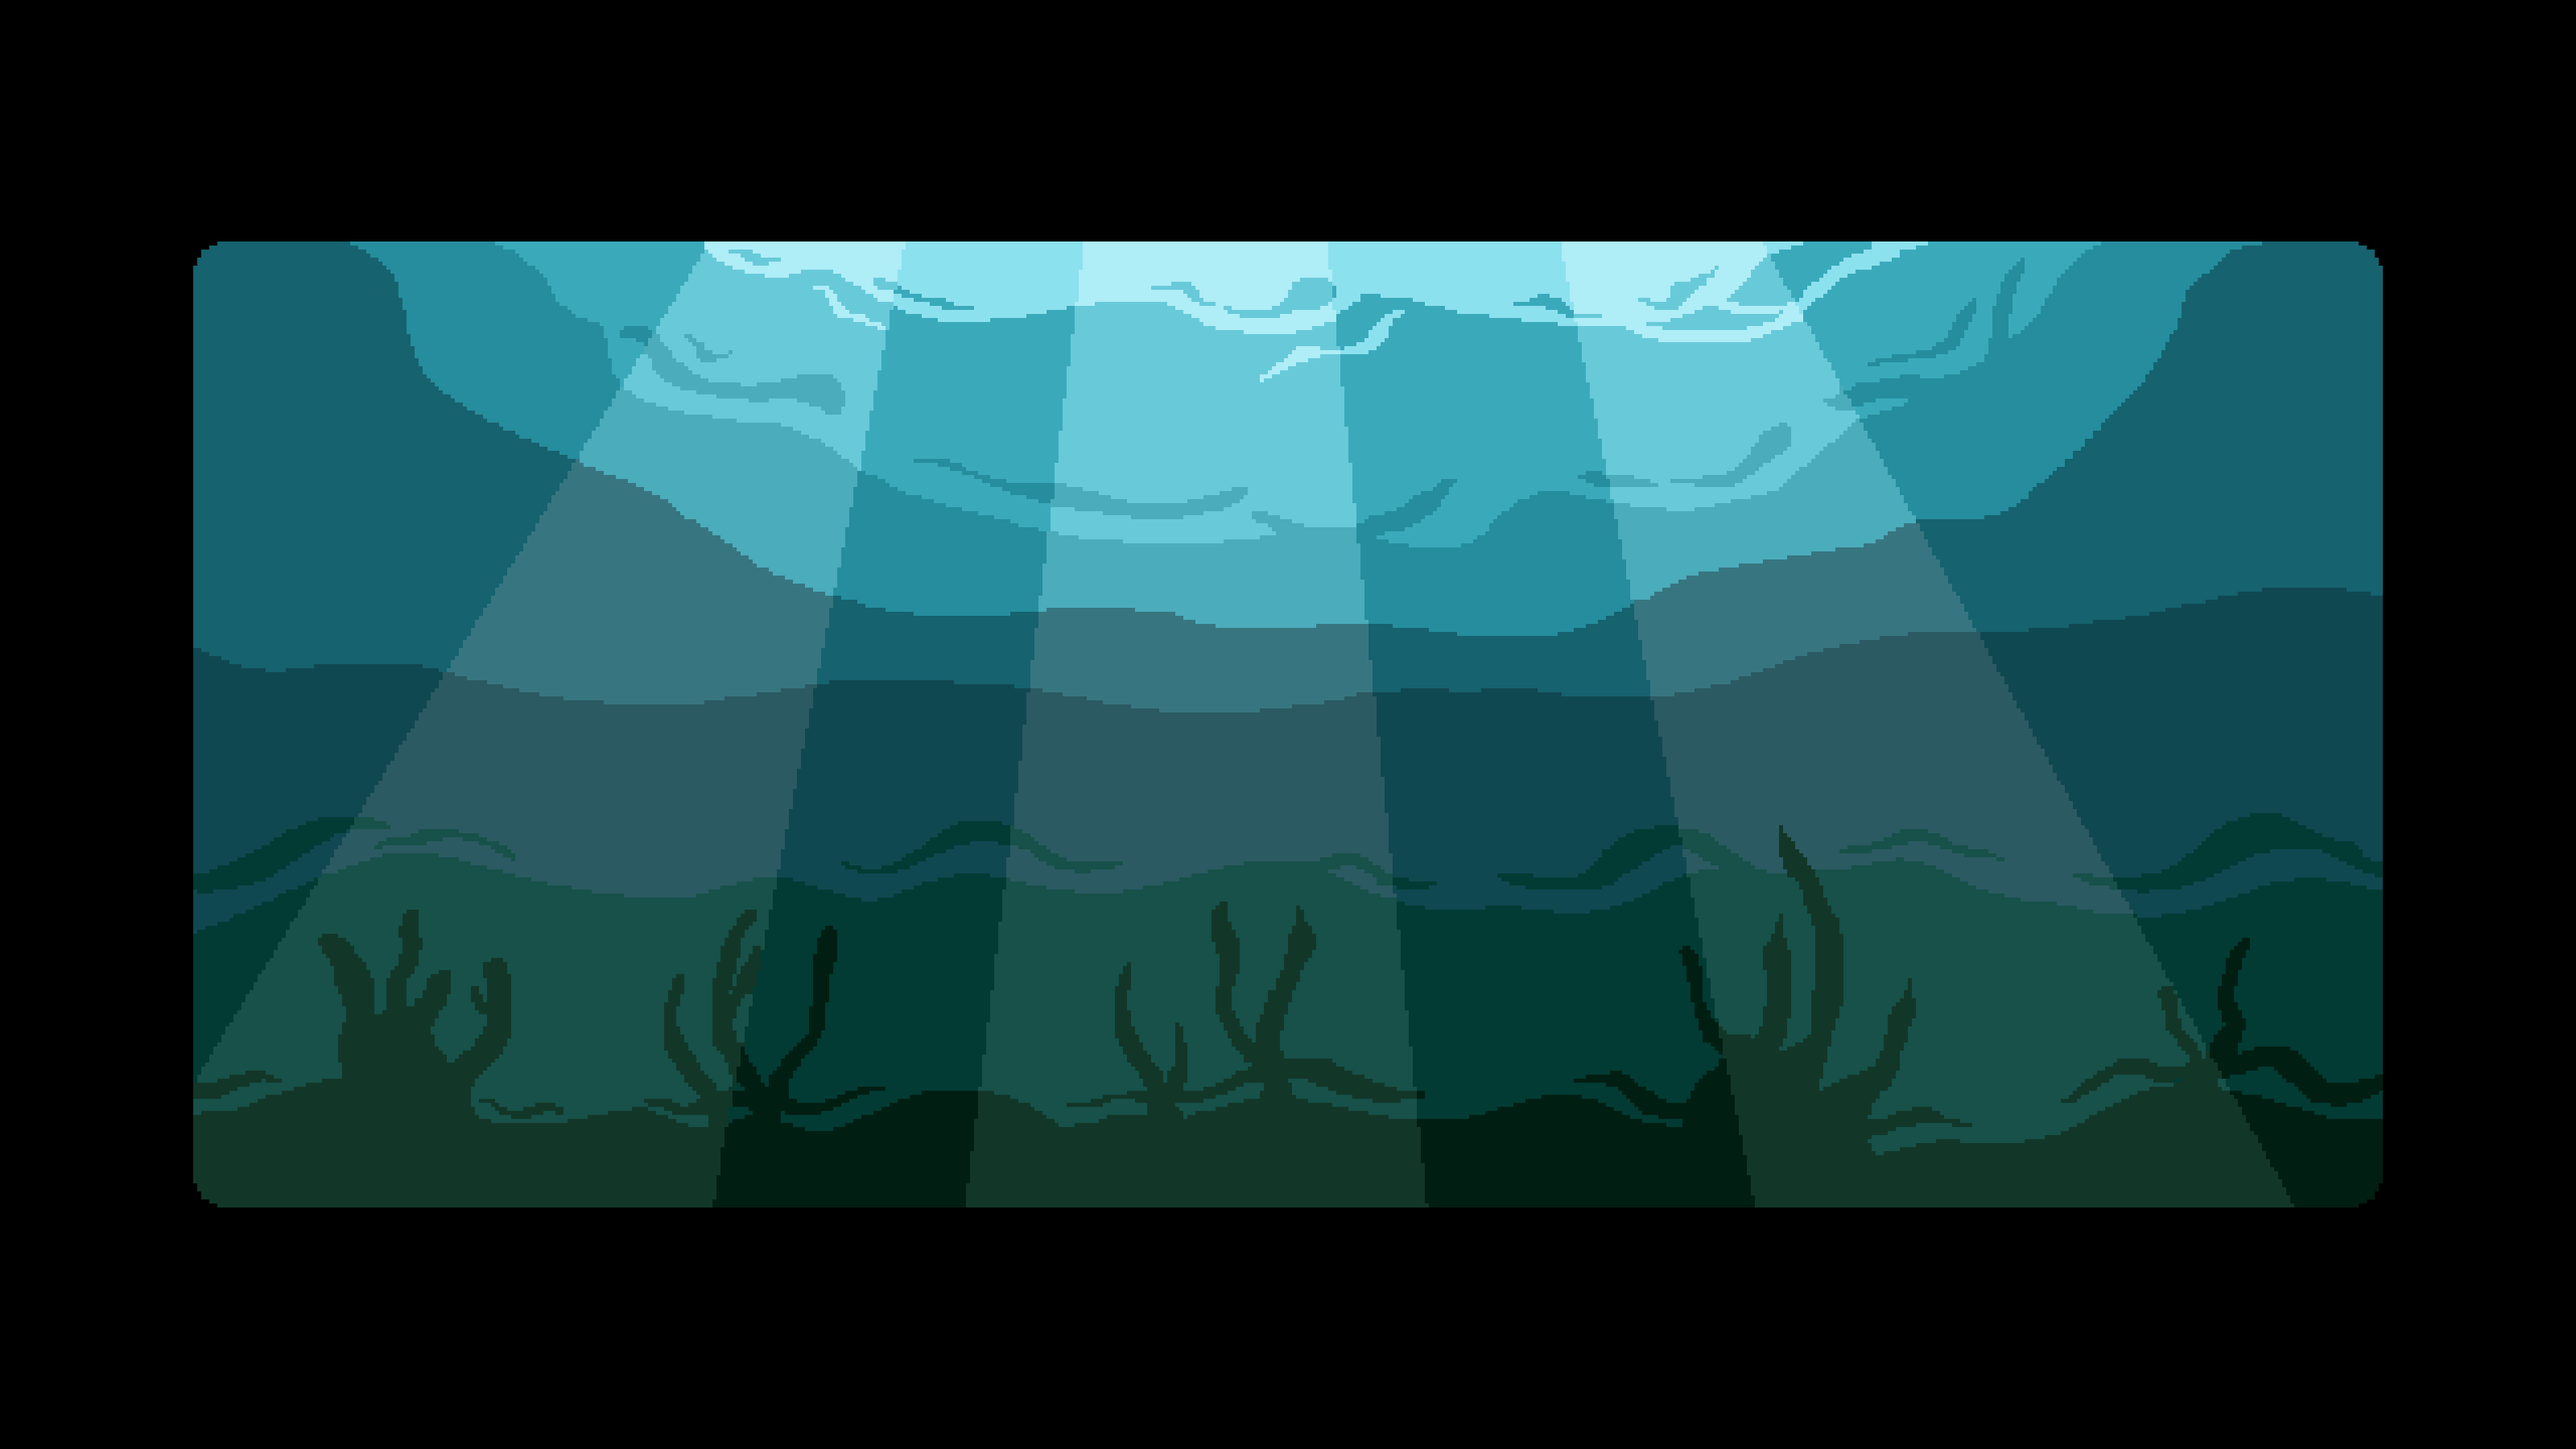
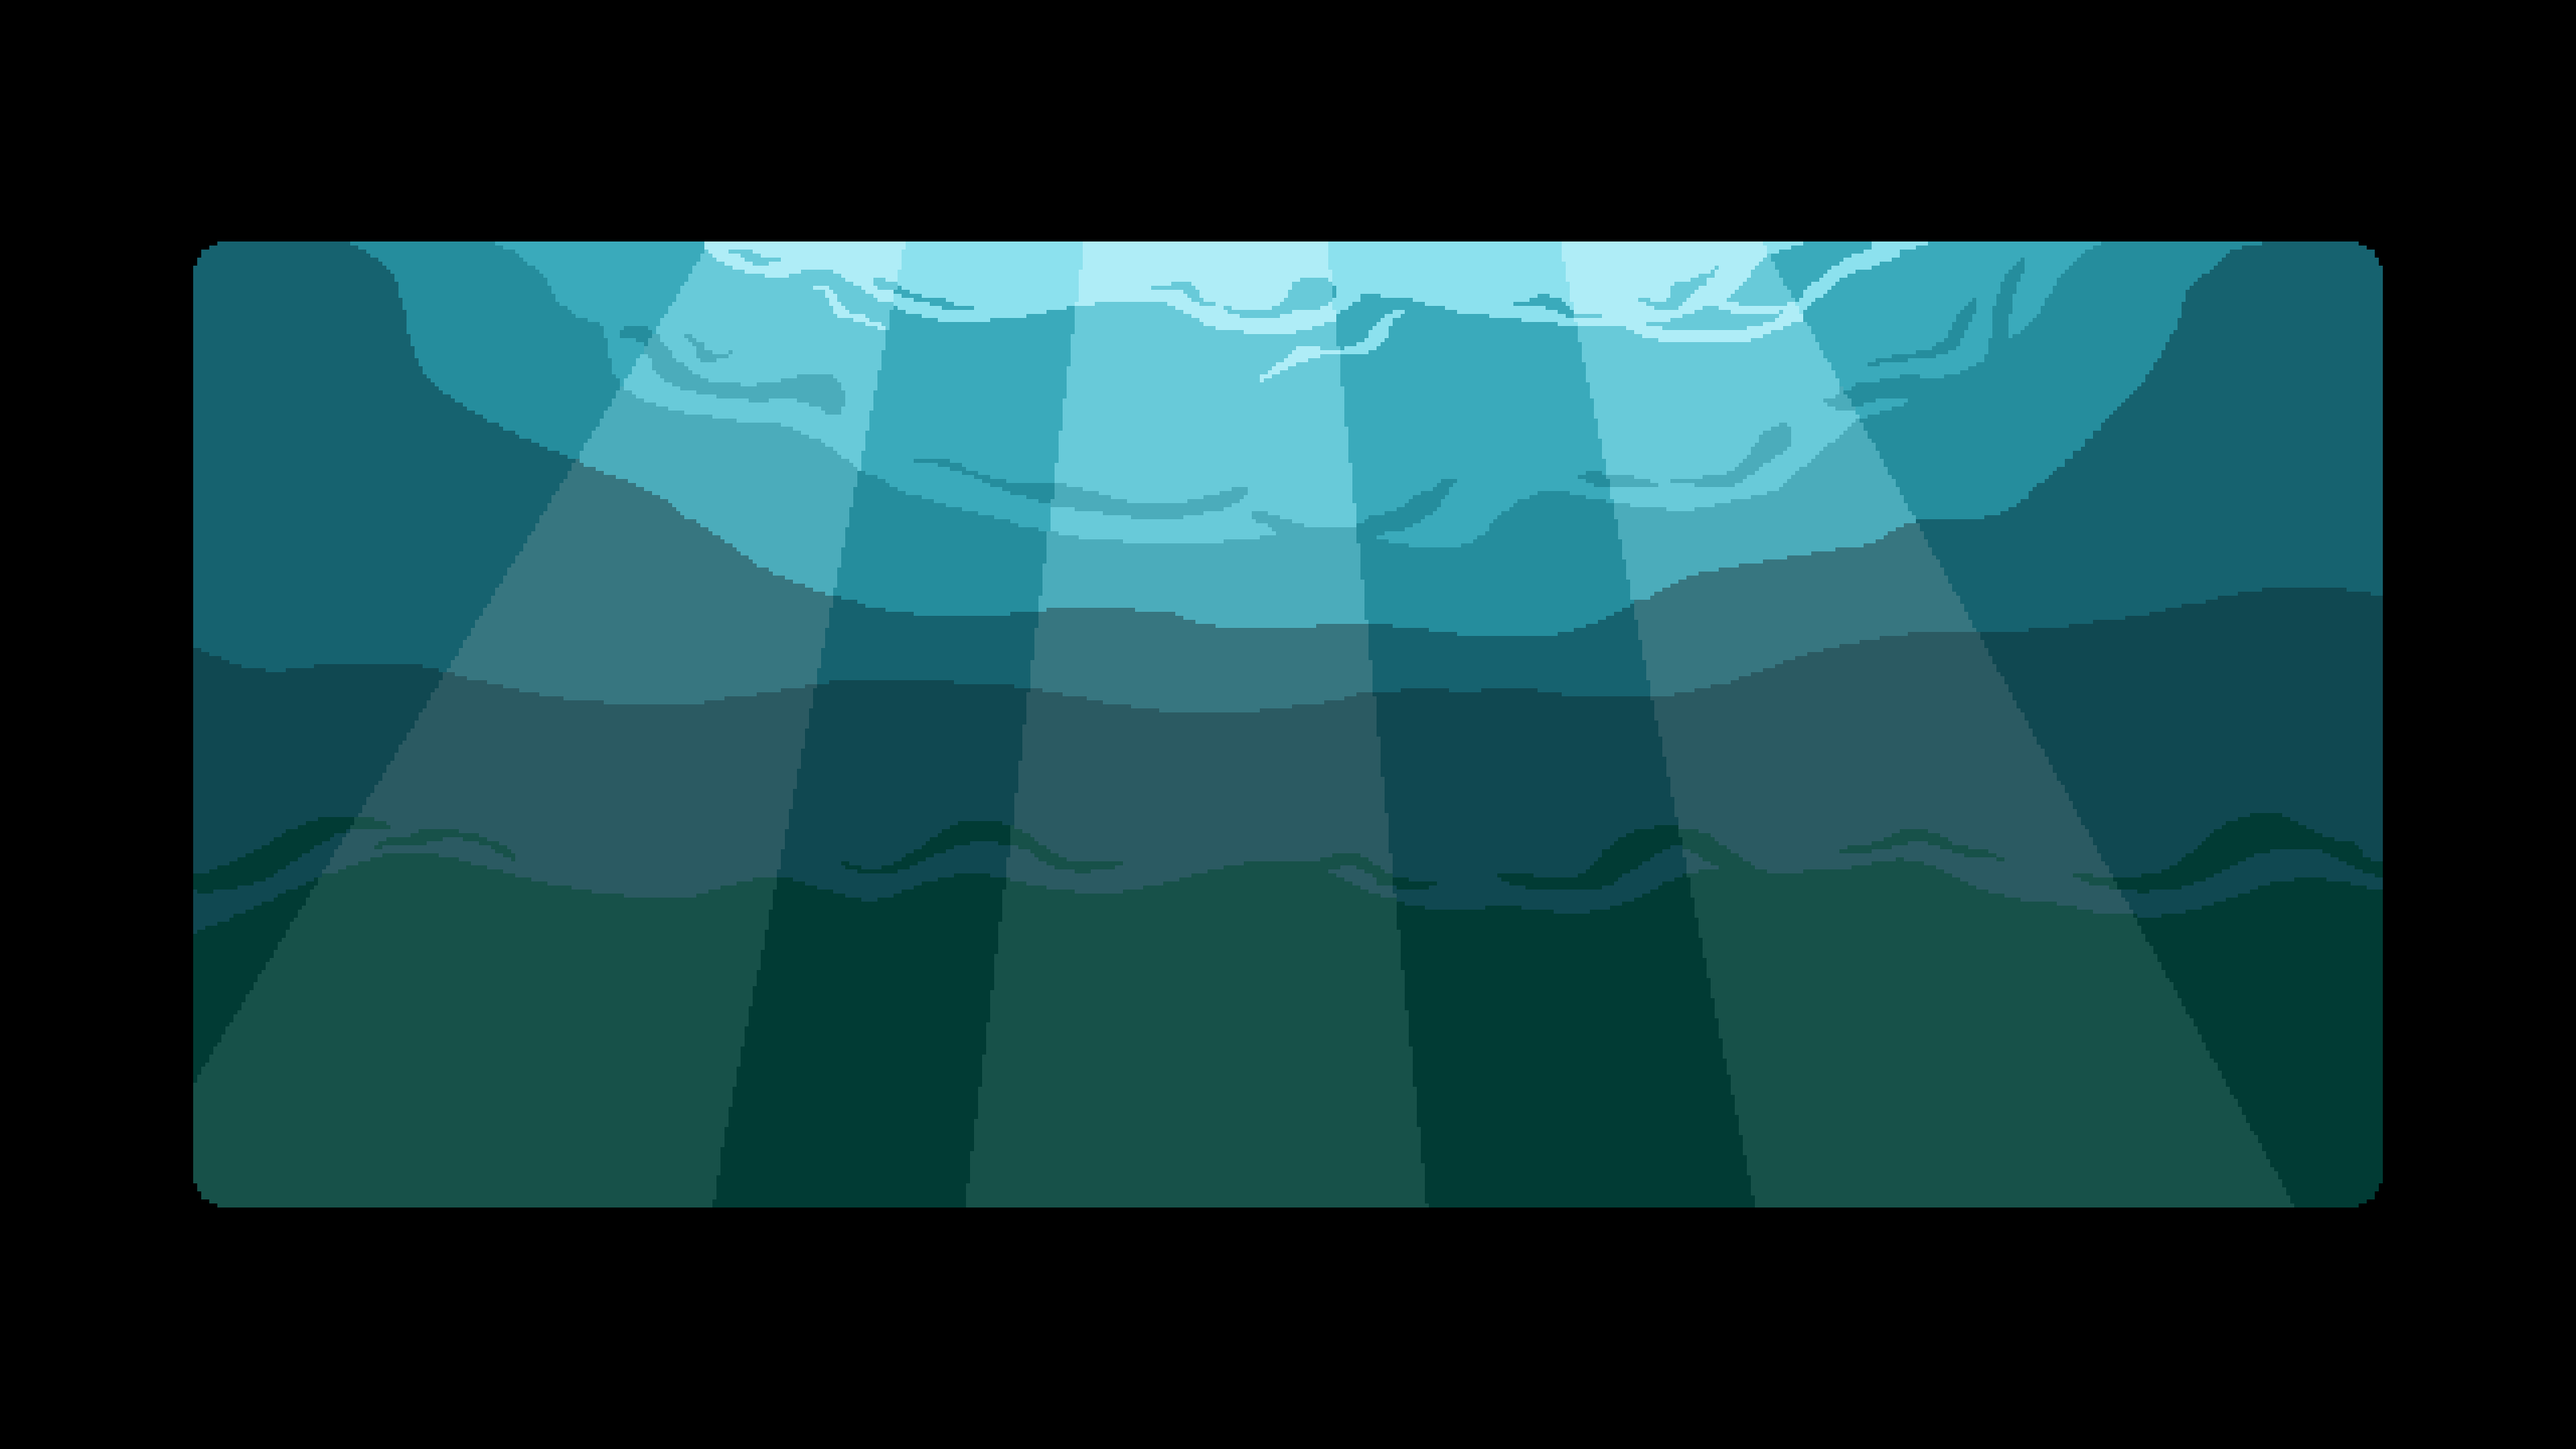
added seaweed animation
seaweed animated with frames

Changed region(s): [[0.0625, 0.56, 0.9375, 0.84], [0.4062, 0.6844, 0.4375, 0.7156]]

diff --git a/An Phiast Game/game/script.js b/An Phiast Game/game/script.js
@@ -680,6 +680,19 @@ let waterShootFrameCounter = 0;
 let waterShootFrameDelay = 10;
 let waterShoot = null;
 
+// seaweed animation lvl 10
+const seaweedFrames = [];
+
+for (let i = 1; i <= 4; i++) {
+    const img = new Image();
+    img.src = "assets/images/seaweed_" + i + ".png";
+    seaweedFrames.push(img);
+}
+
+let seaweedFrameIndex = 0;
+let seaweedFrameCounter = 0;
+let seaweedFrameDelay = 26;
+
 
 
 
@@ -3109,6 +3122,21 @@ if (currentLevel === 3 || currentLevel === 4 || currentLevel === 5) {
         }
 }
 
+    // animate seaweed level 10
+    if (currentLevel === 9) {
+
+        seaweedFrameCounter++;
+
+        if (seaweedFrameCounter >= seaweedFrameDelay) {
+            seaweedFrameCounter = 0;
+            seaweedFrameIndex++;
+
+            if (seaweedFrameIndex >= seaweedFrames.length) {
+                seaweedFrameIndex = 0;
+            }
+        }
+    }
+
     // pick up bow and spawn enemies in level 3
     if (bow && !bow.collected && isColliding(player, bow)) {
         bow.collected = true;
@@ -5204,6 +5232,32 @@ if (debugMode && currentDrag) {
             purpleSpiderLvl9.y,
             purpleSpiderLvl9.size,
             purpleSpiderLvl9.size
+        );
+    }
+
+    // draw seaweed
+    if (
+        currentLevel === 9 &&
+        seaweedFrames[seaweedFrameIndex] &&
+        seaweedFrames[seaweedFrameIndex].complete
+    ) {
+
+        const img = seaweedFrames[seaweedFrameIndex];
+
+        const scale = 0.6; // adjusted to fit properly
+
+        const seaweedWidth = img.width * scale;
+        const seaweedHeight = img.height * scale;
+
+        const seaweedX = (GAME_WIDTH - seaweedWidth) / 2;
+        const seaweedY = GAME_HEIGHT - seaweedHeight - 180;
+
+        ctx.drawImage(
+            img,
+            seaweedX,
+            seaweedY,
+            seaweedWidth,
+            seaweedHeight
         );
     }
 
